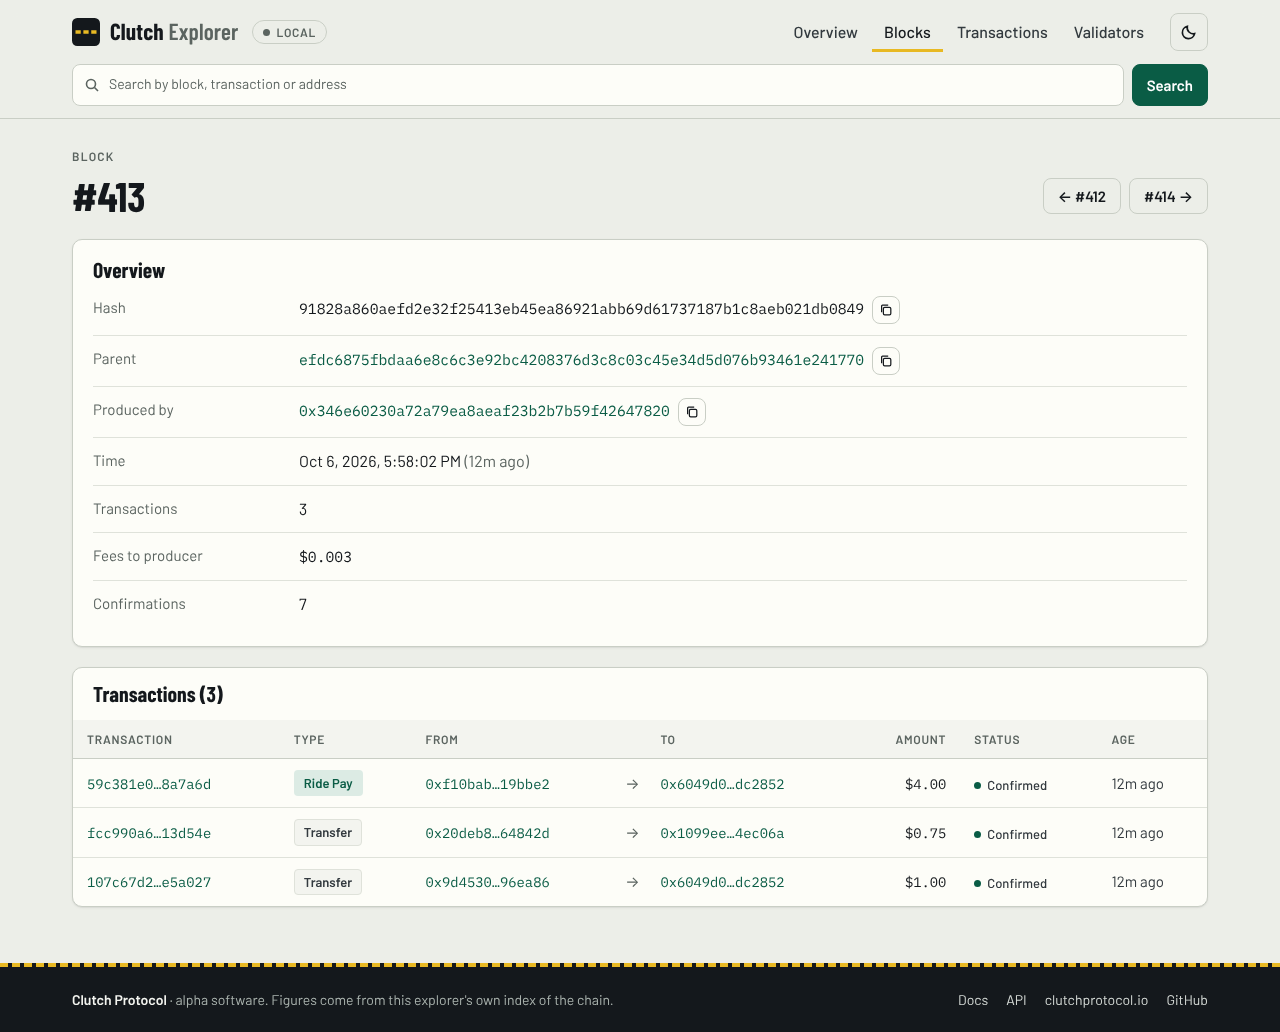
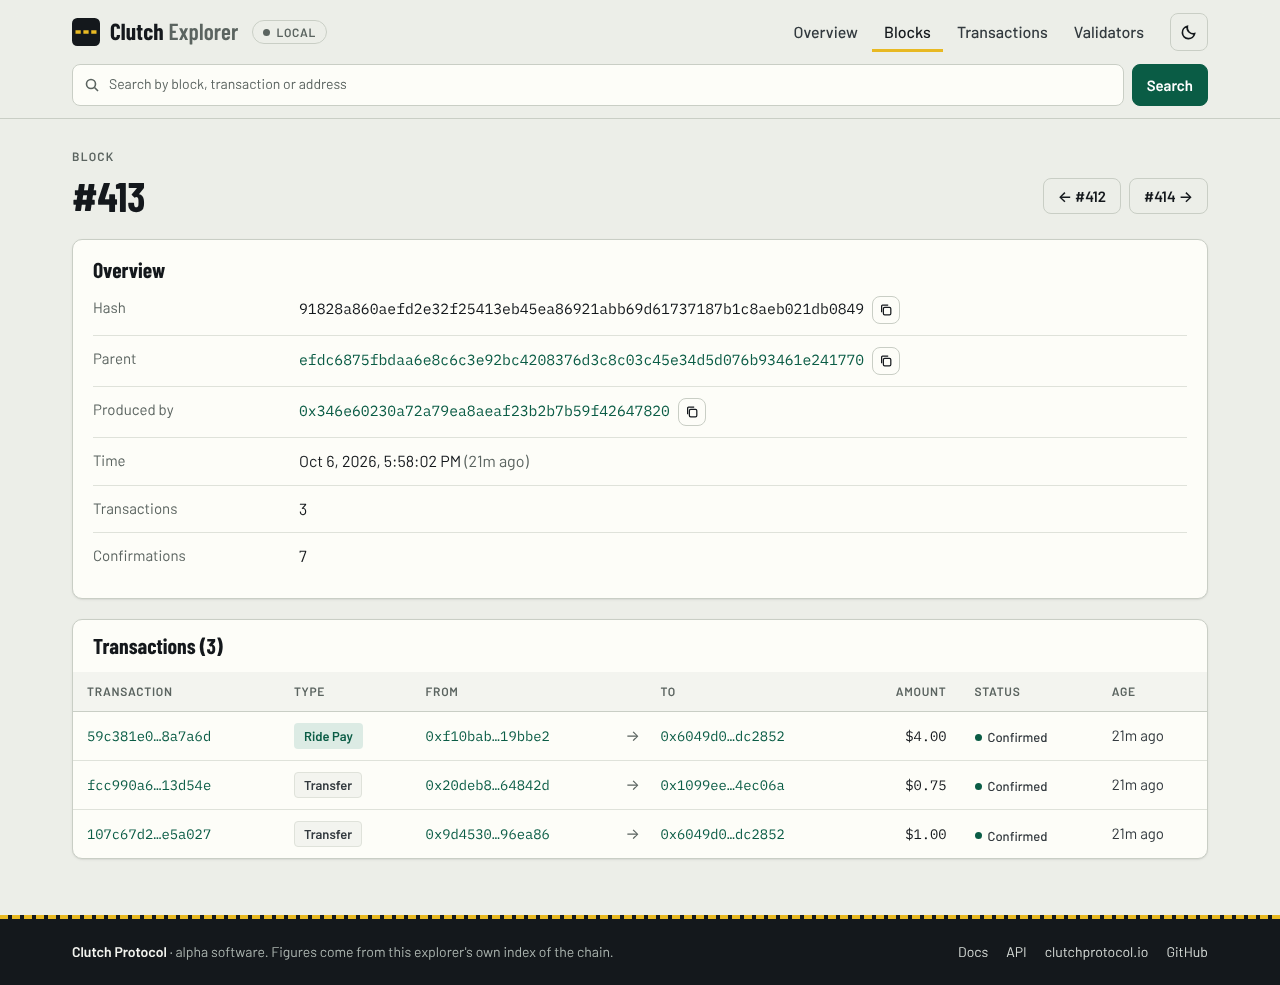
fix(explorer): stop presenting the indexer's placeholder fields as real values
The indexer writes fee 0, total_fees 0, peer_id "" and status "confirmed" for
everything today. A fee of 0 now reads "not recorded" rather than $0.00, block
fees and the peer ID column appear only when populated, and the status picker
is gone because only one status is ever stored.

Claude-Session: https://claude.ai/code/session_01JkBLW5gBovWC6vpURaQ21o

diff --git a/frontend/src/pages/ValidatorsPage.tsx b/frontend/src/pages/ValidatorsPage.tsx
@@ -8,6 +8,8 @@ export function ValidatorsPage() {
   const { data, error } = useApi(() => explorerApi.getValidators(100, 0), []);
   const validators = data?.items ?? [];
   const total = validators.reduce((sum, v) => sum + v.blocks_produced, 0) || 1;
+  // The indexer knows producers by address only, so peer IDs are empty today; skip the column then.
+  const hasPeerIds = validators.some((v) => v.peer_id);
 
   return (
     <div className="page-grid">
@@ -29,7 +31,7 @@ export function ValidatorsPage() {
                 <th>Status</th>
                 <th className="num">Blocks produced</th>
                 <th className="share-col">Share</th>
-                <th>Peer ID</th>
+                {hasPeerIds ? <th>Peer ID</th> : null}
               </tr>
             </thead>
             <tbody>
@@ -54,18 +56,20 @@ export function ValidatorsPage() {
                         <span className="shares-pct">{(share * 100).toFixed(1)}%</span>
                       </div>
                     </td>
-                    <td>
-                      {v.peer_id ? (
-                        <span className="inline-group">
-                          <span className="mono muted" title={v.peer_id}>
-                            {shortHash(v.peer_id, 10, 6)}
+                    {hasPeerIds ? (
+                      <td>
+                        {v.peer_id ? (
+                          <span className="inline-group">
+                            <span className="mono muted" title={v.peer_id}>
+                              {shortHash(v.peer_id, 10, 6)}
+                            </span>
+                            <CopyButton value={v.peer_id} label="Copy peer ID" />
                           </span>
-                          <CopyButton value={v.peer_id} label="Copy peer ID" />
-                        </span>
-                      ) : (
-                        <span className="muted">—</span>
-                      )}
-                    </td>
+                        ) : (
+                          <span className="muted">—</span>
+                        )}
+                      </td>
+                    ) : null}
                   </tr>
                 );
               })}

diff --git a/frontend/src/pages/TransactionsPage.tsx b/frontend/src/pages/TransactionsPage.tsx
@@ -6,7 +6,6 @@ import { useApi } from "../hooks/useApi";
 import { usePage } from "../hooks/usePage";
 
 const PAGE_SIZE = 25;
-const STATUSES = ["", "confirmed", "pending", "failed"];
 
 /** The transaction types a reader would filter by, grouped the way the chain uses them. */
 const TYPE_GROUPS: { label: string; types: string[] }[] = [
@@ -23,6 +22,8 @@ const spaced = (type: string) => type.replace(/([a-z])([A-Z])/g, "$1 $2");
 export function TransactionsPage() {
   const [page, setPage] = usePage();
   const [params, setParams] = useSearchParams();
+  // `status` is honoured if a link carries it, but not offered: the indexer stores "confirmed"
+  // for every transaction today, so a status picker could not narrow anything.
   const status = params.get("status") ?? "";
   const type = params.get("type") ?? "";
 
@@ -72,19 +73,6 @@ export function TransactionsPage() {
                 ))}
               </select>
             </label>
-            <div className="segmented" role="group" aria-label="Filter by status">
-              {STATUSES.map((value) => (
-                <button
-                  key={value || "all"}
-                  type="button"
-                  aria-pressed={status === value}
-                  className={status === value ? "is-active" : ""}
-                  onClick={() => setFilter("status", value)}
-                >
-                  {value || "All"}
-                </button>
-              ))}
-            </div>
           </div>
         }
       >

diff --git a/frontend/src/pages/TransactionDetailPage.tsx b/frontend/src/pages/TransactionDetailPage.tsx
@@ -104,7 +104,15 @@ export function TransactionDetailPage() {
             <Amount value={item.amount} />
           </DetailRow>
           <DetailRow label="Network fee">
-            <Amount value={item.fee} /> <span className="muted">to the block producer</span>
+            {item.fee > 0 ? (
+              <>
+                <Amount value={item.fee} /> <span className="muted">to the block producer</span>
+              </>
+            ) : (
+              // The indexer writes 0 for every transaction today: the node's block payload carries
+              // no per-transaction fee. Saying "$0.00" would claim the transaction was free.
+              <span className="muted">Not recorded by the explorer yet</span>
+            )}
           </DetailRow>
           <DetailRow label="Sender nonce">{item.nonce}</DetailRow>
           {referrer ? (

diff --git a/frontend/src/pages/BlockDetailPage.tsx b/frontend/src/pages/BlockDetailPage.tsx
@@ -78,9 +78,12 @@ export function BlockDetailPage() {
             {formatDateTime(block.timestamp)} <span className="muted">(<TimeAgo value={block.timestamp} />)</span>
           </DetailRow>
           <DetailRow label="Transactions">{block.tx_count}</DetailRow>
-          <DetailRow label="Fees to producer">
-            <Amount value={block.total_fees} />
-          </DetailRow>
+          {/* Written as 0 at ingestion today; shown only once the indexer computes it. */}
+          {block.total_fees > 0 ? (
+            <DetailRow label="Fees to producer">
+              <Amount value={block.total_fees} />
+            </DetailRow>
+          ) : null}
           {latestHeight !== undefined ? (
             <DetailRow label="Confirmations">{Math.max(0, latestHeight - block.height + 1).toLocaleString()}</DetailRow>
           ) : null}
